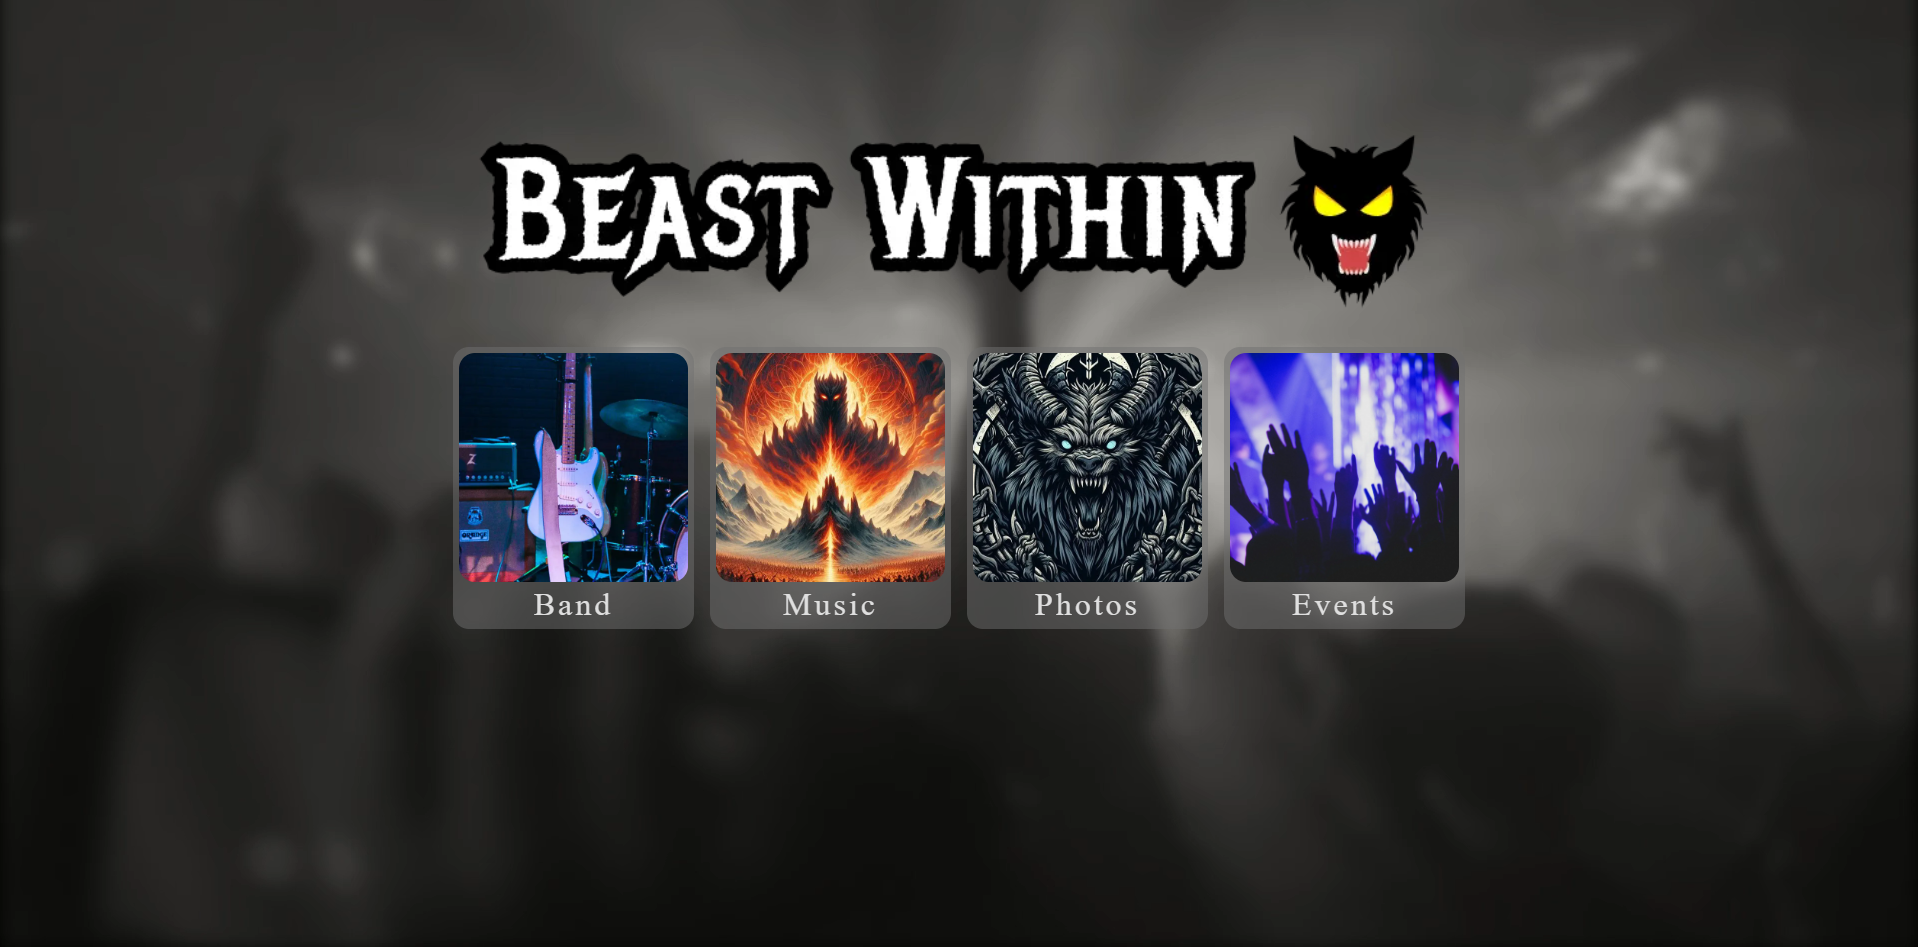
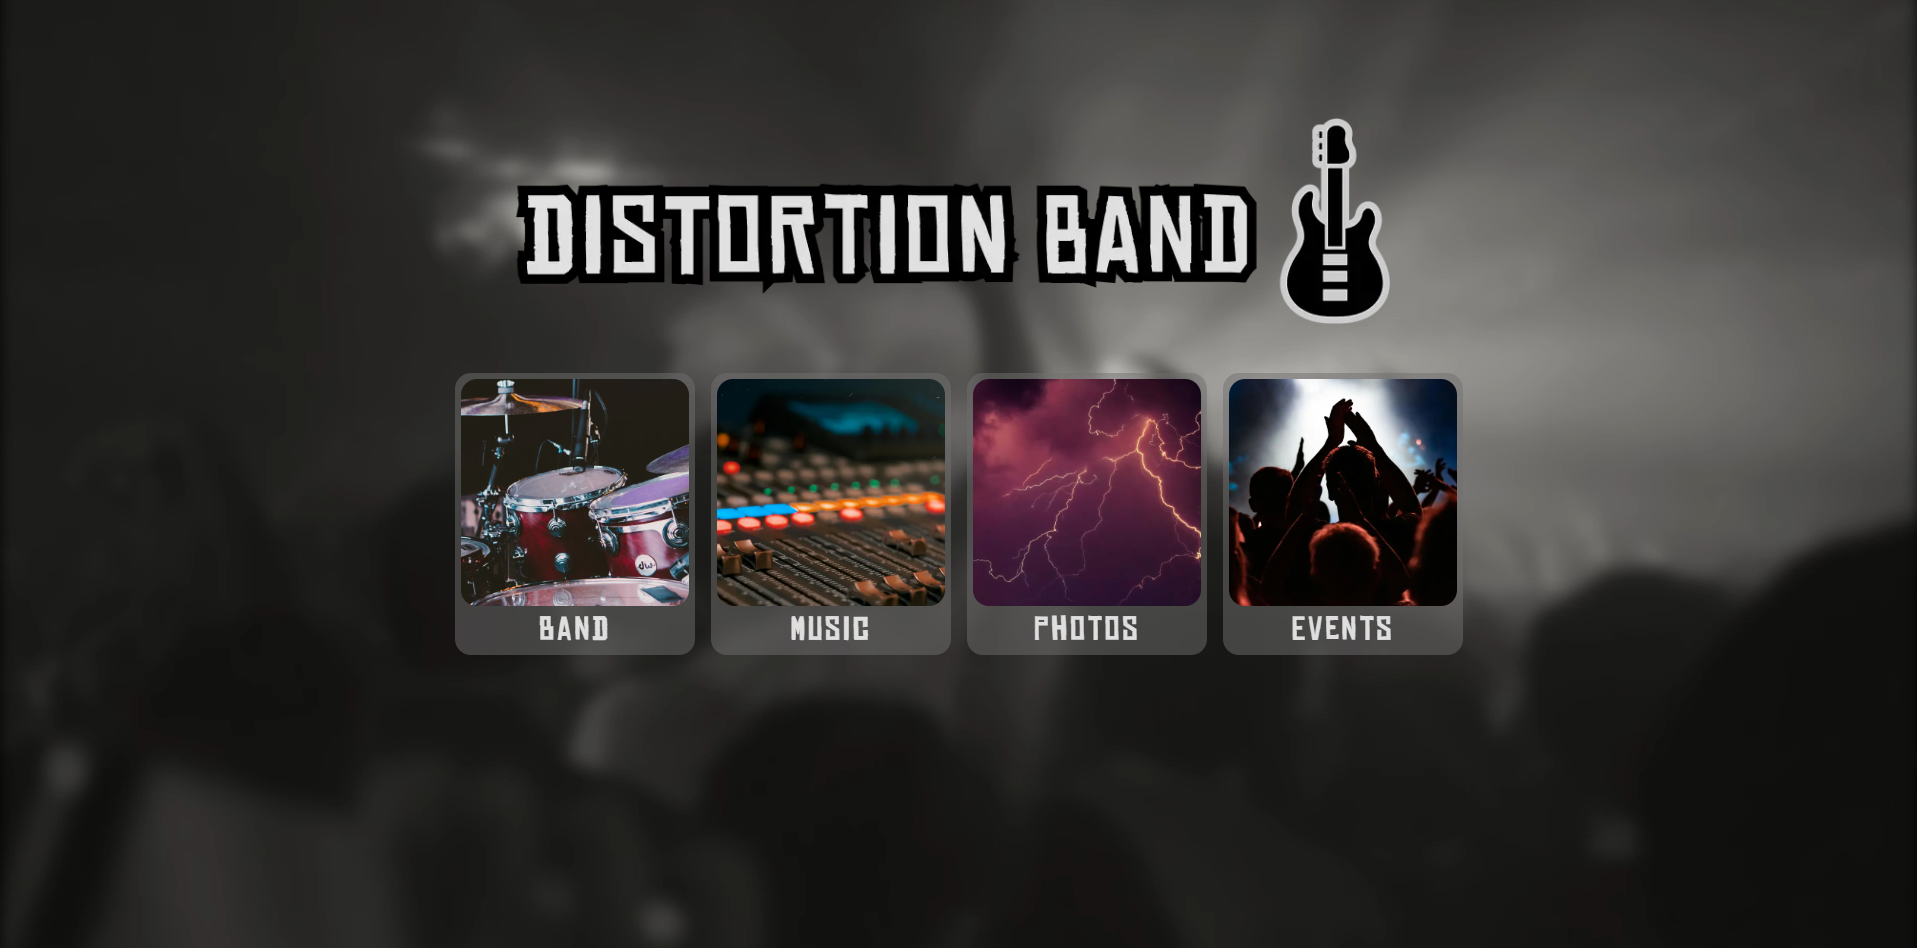
my projects update

diff --git a/app/website/content.ts b/app/website/content.ts
@@ -69,10 +69,9 @@ const projects: Project[] = [
     link: "https://guitar-dictionary.vercel.app/",
   },
   {
-    name: "Metal Band Template",
+    name: "Band Template",
     image: "/band_template.png",
-    description:
-      "Website template for an imaginary AI generated metal band called 'Beast Within'.",
+    description: "Website template for a metal/rock/punk band.",
     link: "https://metal-band-template.vercel.app/",
   },
 ];
